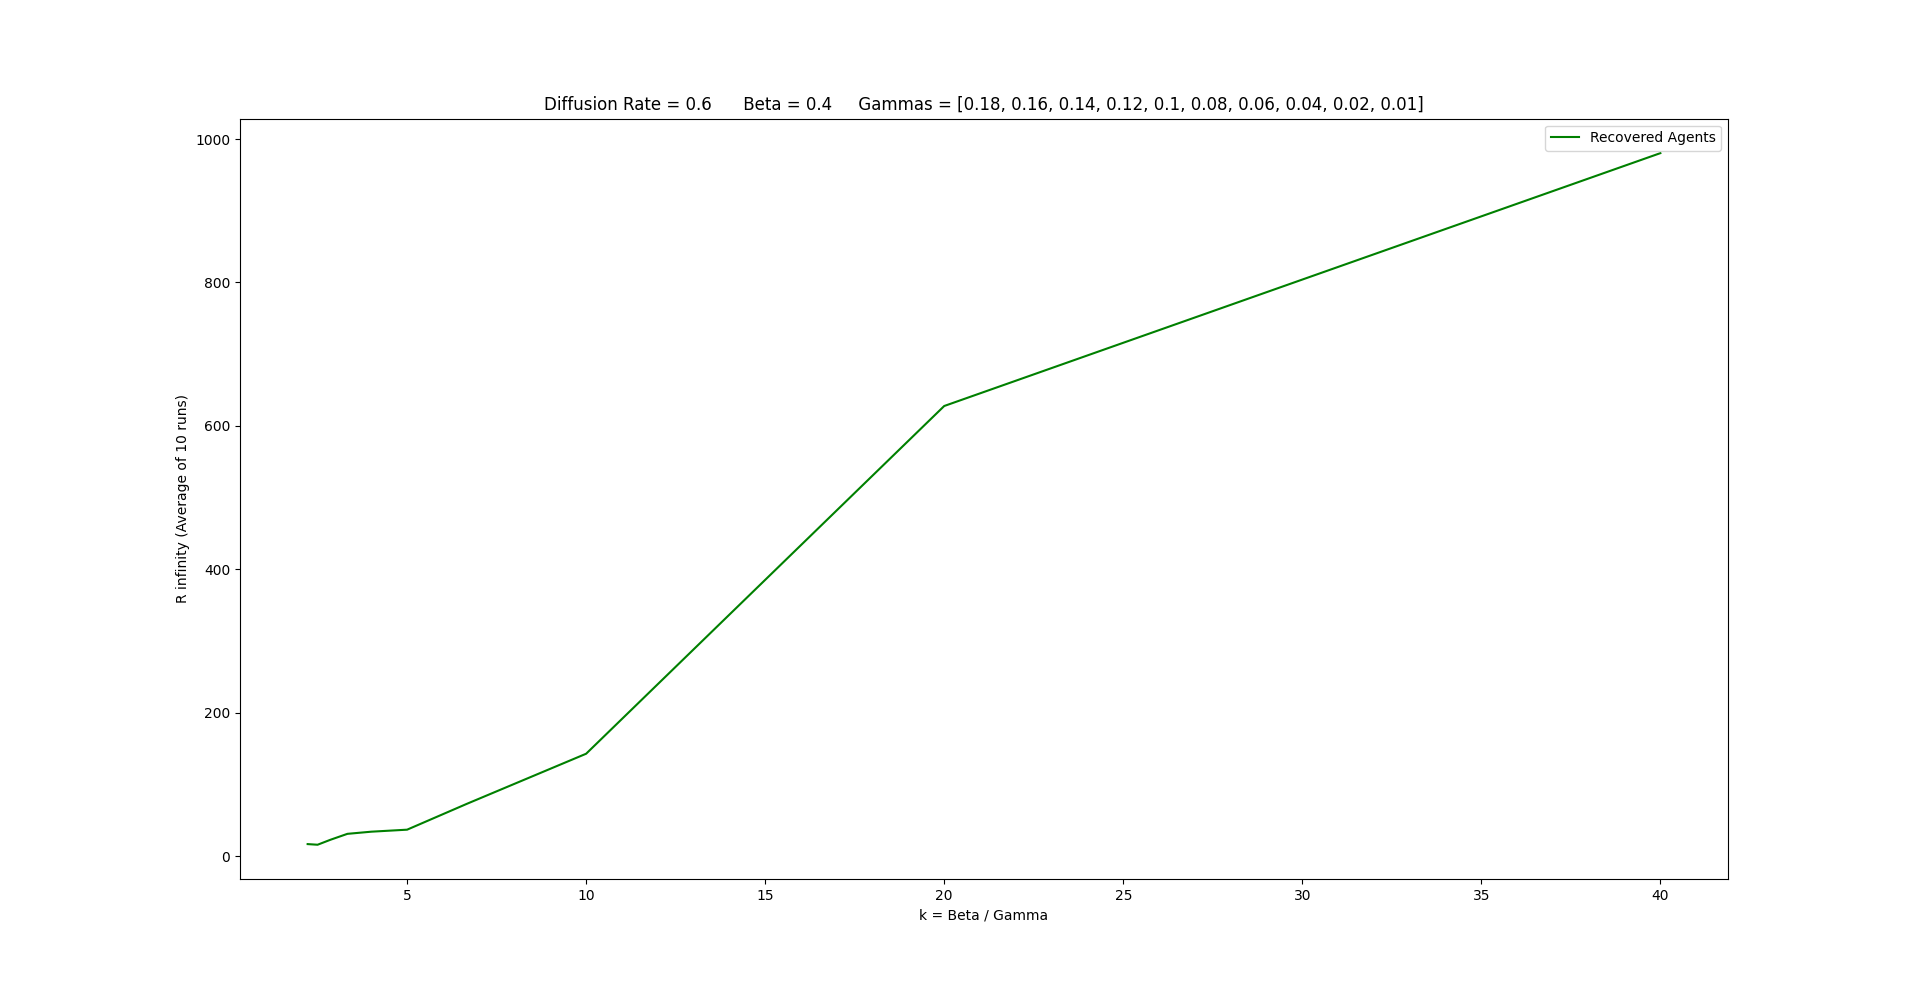
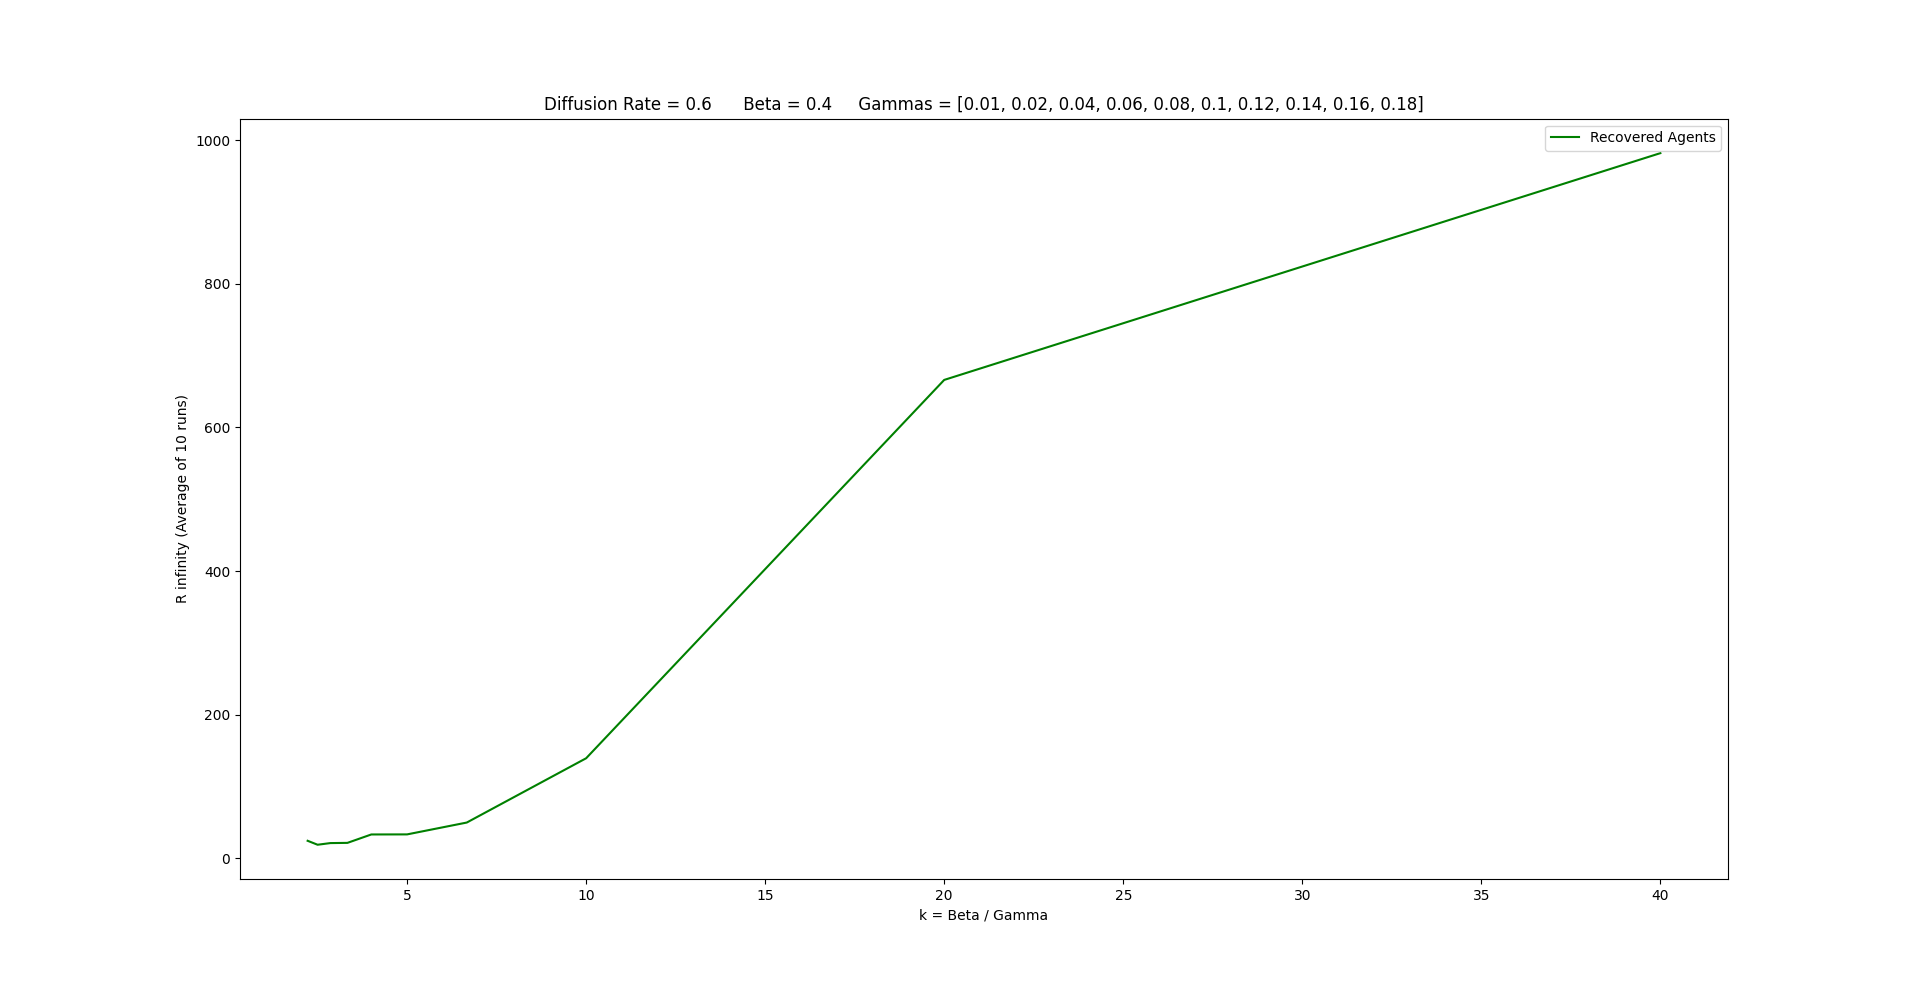
commit

diff --git a/HW1/HW1.py b/HW1/HW1.py
@@ -300,7 +300,7 @@ def task2_2():
 def task3():
     SIR = DiseaseSpreading(time_steps=1000, nr_agents=1000, grid_length=100, diffusion_rate=0.6, infection_rate=0.8, recovery_rate=0.1)
     run = 0
-    gammas = [0.18, 0.16, 0.14, 0.12, 0.10, 0.08, 0.06, 0.04, 0.02, 0.01]
+    gammas = [0.01, 0.02, 0.04, 0.06, 0.08, 0.10, 0.12, 0.14, 0.16, 0.18]
     R_infinity = np.zeros((len(gammas), 1))
     for gamma in gammas:
         R_infinity_reps = np.zeros((10, 1))
@@ -312,7 +312,10 @@ def task3():
             SIR.gamma = gamma
             time_step = 0
             while(time_step < SIR.time_steps and stop == False):
-                SIR.draw_agents(current_time=time_step)
+                print(sum(SIR.infected))
+                print("Time Step = " + str(time_step))
+                print("beta = " + str(SIR.beta))
+                print("gamma = " + str(SIR.gamma))
                 SIR.step()
                 time[time_step] = time_step
                 nr_rec[time_step] = sum(SIR.recovered)
